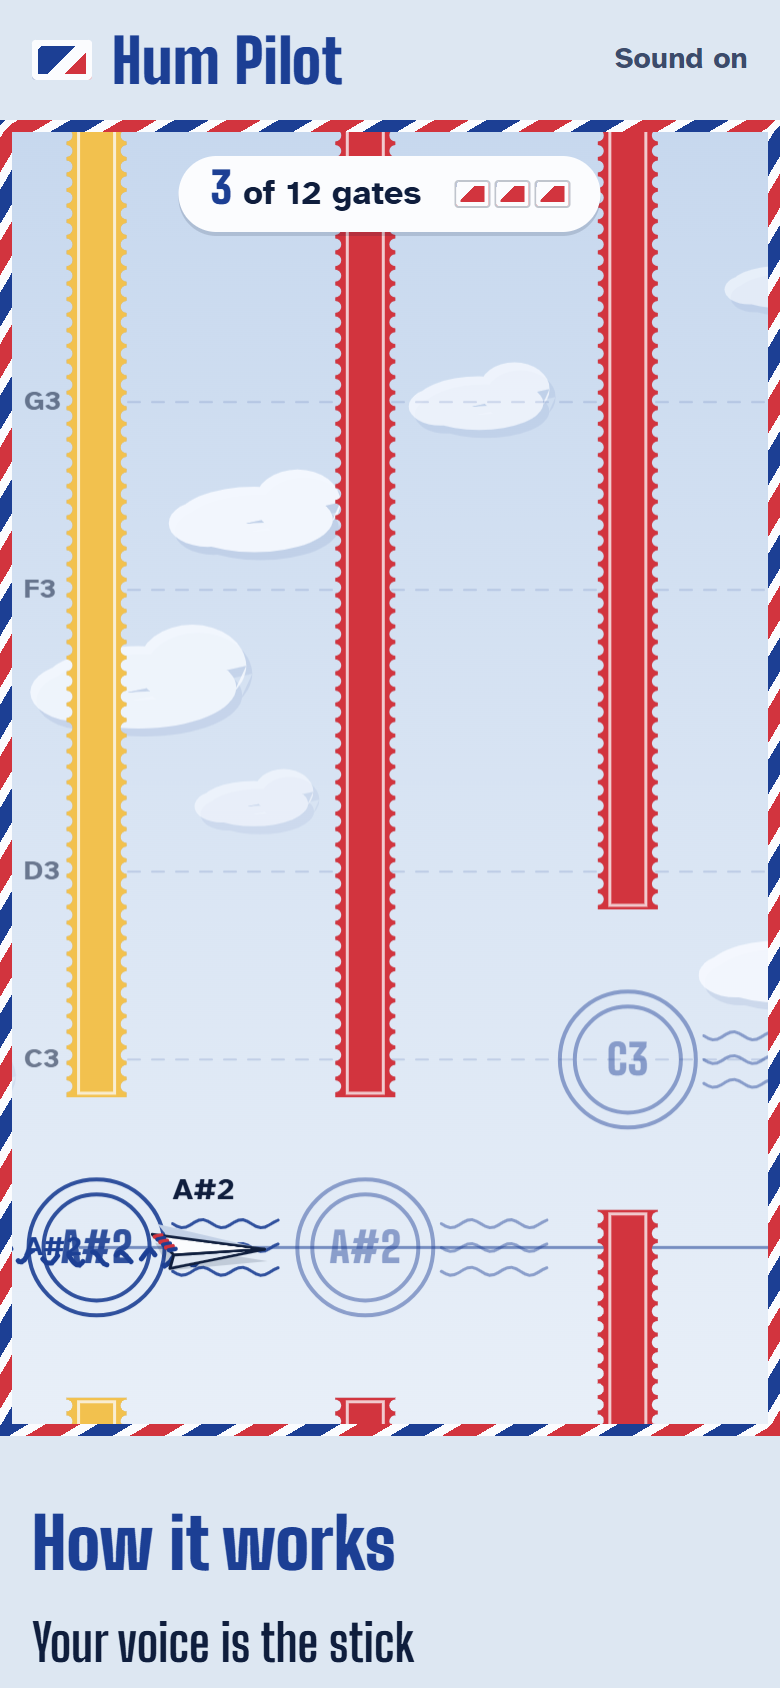
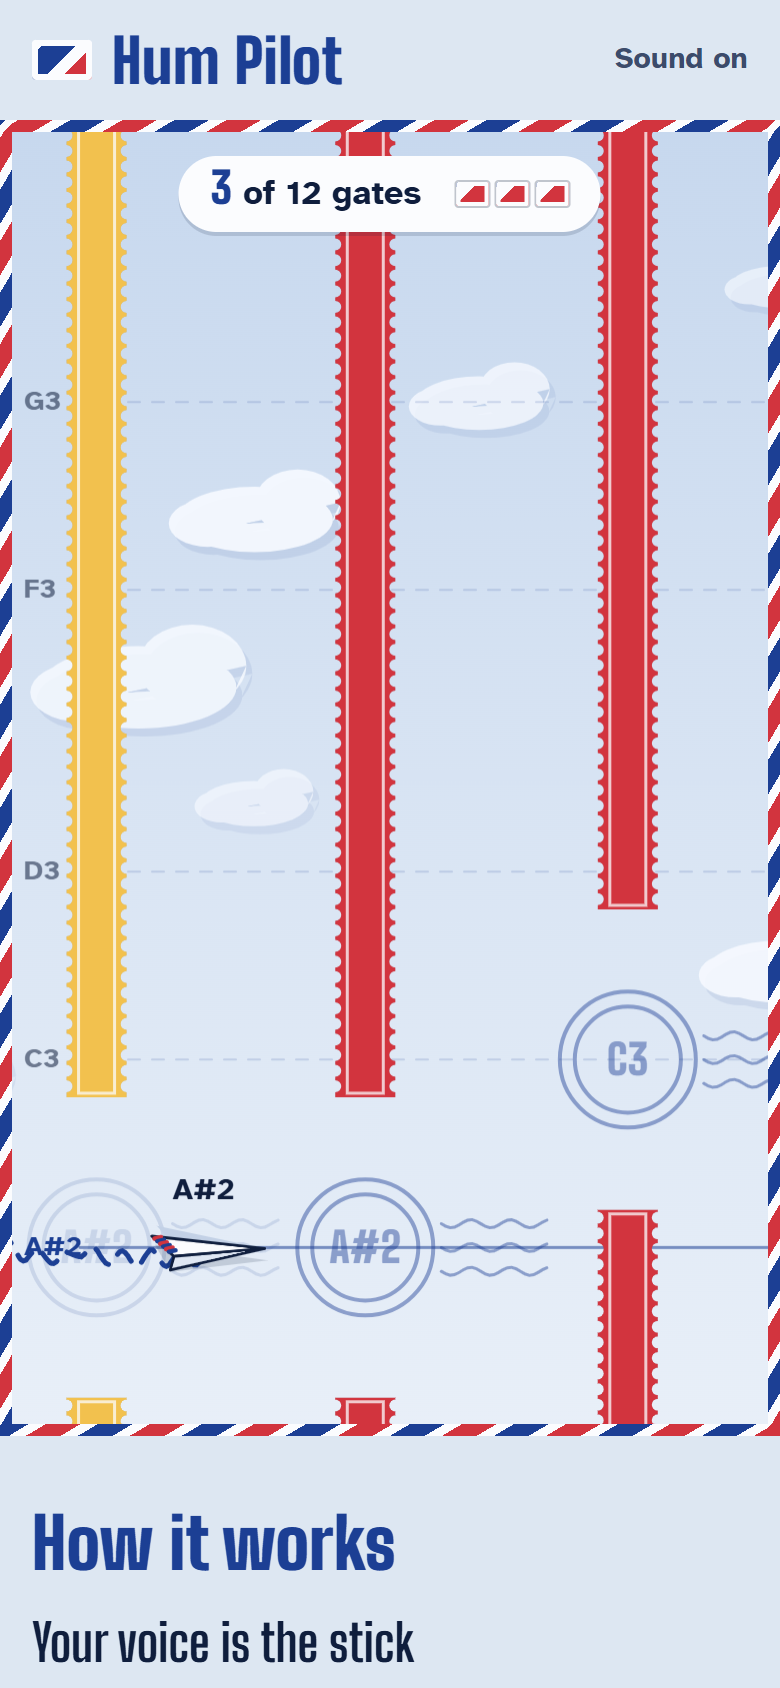
README, screenshots, accuracy report from the live-site run

Changed region(s): [[0.0308, 0.6777, 0.3385, 0.8009]]

diff --git a/scripts/make-fixtures.ts b/scripts/make-fixtures.ts
@@ -51,7 +51,8 @@ mkdirSync('test/fixtures', { recursive: true });
   const voice = VOICES.find((v) => v.name === 'light')!;
   const range = { low: 53, high: 64 };
   const gates = makeLevel(range, 'demo', { gates: 12 });
-  const notes: Note[] = [{ midi: null, dur: 0.6 }, { midi: range.low, dur: 2.6 }, { midi: null, dur: 1.0 }, { midi: range.high, dur: 2.6 }, { midi: null, dur: 1.6 }];
+  // A long pause before the tune leaves room for narration over the "Ready" screen.
+  const notes: Note[] = [{ midi: null, dur: 0.6 }, { midi: range.low, dur: 2.6 }, { midi: null, dur: 1.0 }, { midi: range.high, dur: 2.6 }, { midi: null, dur: 10.5 }];
   const tuneStart = notes.reduce((a, n) => a + n.dur, 0);
   gates.forEach((g, i) => {
     const from = i === 0 ? 0 : (gates[i - 1].time + g.time) / 2;
@@ -59,7 +60,7 @@ mkdirSync('test/fixtures', { recursive: true });
     notes.push({ midi: g.note, dur: to - from });
   });
   const tuneEnd = notes.reduce((a, n) => a + n.dur, 0);
-  const practiceStart = Math.ceil(tuneEnd + 11);
+  const practiceStart = Math.ceil(tuneEnd + 8.5);
   notes.push({ midi: null, dur: practiceStart - tuneEnd });
   const targets = practiceTargets(range, mulberry32(hashSeed('demo-0'))).slice(0, 3);
   for (const t of targets) notes.push({ midi: t, dur: 2.2 }, { midi: null, dur: 0.5 });

diff --git a/scripts/report.ts b/scripts/report.ts
@@ -1,6 +1,7 @@
 // Writes docs/ACCURACY.md from docs/accuracy.json (and test-results/e2e-mic.json if present).
 // Usage: node --experimental-strip-types scripts/report.ts
 import { existsSync, readFileSync, writeFileSync } from 'node:fs';
+import { noteName } from '../src/pitch/notes.ts';
 
 const acc = JSON.parse(readFileSync('docs/accuracy.json', 'utf8'));
 const pct = (x: number) => `${(100 * x).toFixed(1)}%`;
@@ -99,7 +100,7 @@ Run it with \`node --experimental-strip-types scripts/e2e-mic.ts <url>\`.
 `;
   for (const r of e.report) {
     if (r.matched) {
-      md += `| ${r.fixture} (practice) | ${r.range.low}-${r.range.high} (MIDI) | ${r.matched} notes matched | – | – | ${r.ok ? 'pass' : 'FAIL'} |\n`;
+      md += `| ${r.fixture} (practice) | ${noteName(r.range.low)}-${noteName(r.range.high)} | ${r.matched} notes matched | – | – | ${r.ok ? 'pass' : 'FAIL'} |\n`;
     } else {
       md += `| ${r.fixture} | ${r.expectedRange.lowName}-${r.expectedRange.highName} | ${r.threaded} gates | ${JSON.stringify(r.missed)} (${JSON.stringify(r.expectMissed)}) | median ${r.browserMinusOfflineMs.median} ms (${r.browserMinusOfflineMs.min} to ${r.browserMinusOfflineMs.max}) | ${r.ok ? 'pass' : 'FAIL'} |\n`;
     }

diff --git a/scripts/shots.ts b/scripts/shots.ts
@@ -45,4 +45,17 @@ const browser = await chromium.launch({ channel: 'msedge', args });
   console.log(JSON.stringify({ threaded: await page.evaluate(() => (window as any).__hum.threaded), overflow, errors }));
   await ctx.close();
 }
+// Hero: 2x, caught as the plane passes through the 5th gap (cover image and README)
+{
+  const ctx = await browser.newContext({ viewport: { width: 1280, height: 800 }, deviceScaleFactor: 2, permissions: ['microphone'] });
+  const page = await ctx.newPage();
+  await page.goto(`${BASE}/?seed=e2e&gates=12`);
+  await page.click('[data-act=fly]');
+  await page.waitForFunction(() => {
+    const h = (window as any).__hum;
+    return h.mode === 'flying' && h.gates.length > 5 && h.flightT > h.gates[5].time - 0.12;
+  }, null, { timeout: 40000, polling: 10 });
+  await page.screenshot({ path: `${OUT}/hero.png` });
+  await ctx.close();
+}
 await browser.close();

diff --git a/README.md b/README.md
@@ -1,0 +1,138 @@
+# Hum Pilot
+
+**Fly a paper plane with your voice.** Hum a higher note to climb, a lower note to dive,
+go quiet to glide. A ten-second warm-up tunes the sky to your own range, and every gap
+sits on a real note in it, so threading the gaps means humming a little tune.
+
+**Play it:** https://hum-pilot.pages.dev (works on a laptop or a phone; needs a microphone,
+or fly with the arrow keys)
+
+<!-- VIDEO -->
+
+![A paper plane threading stamp-edged gates, each gap marked with its note](docs/screenshots/flight.png)
+
+| Phone: warm-up | Phone: in flight | Result |
+| --- | --- | --- |
+| ![Warm-up on a phone](docs/screenshots/phone-warmup.png) | ![Flight on a phone](docs/screenshots/phone-flight.png) | ![Result card](docs/screenshots/phone-result.png) |
+
+## Why
+
+Most games need hands. Hum Pilot needs only a hum, so it is playable by people who
+can't use a keyboard, mouse or touch screen comfortably, and by anyone with their hands
+busy. Voice games usually assume one fixed range, which shuts out deep or high voices;
+here the warm-up maps *your* lowest and highest comfortable notes onto the sky.
+
+Because every gap is a real note of your range, each flight is also pitch practice, and
+**Practice notes** mode makes that explicit: hold the plane in a ring on a target note for
+one second, with live feedback in cents (100 cents is one semitone).
+
+## How to play
+
+1. Press **Start flying** and allow the microphone.
+2. Warm-up: hum your lowest comfortable note and hold it, take a breath, then hum your
+   highest. Mouth closed, an "mmm" works best.
+3. Go quiet for a moment, then hum any note to take off.
+4. Higher hum = climb, lower hum = dive, silence = glide. Thread 20 gates; three misses
+   end the flight.
+
+Headphones (or quiet speakers) help: the game's own sound effects are pitchless noise
+bursts on purpose, so they can't steer the plane even if the microphone hears them.
+
+## How it works
+
+```
+microphone ─▶ 2048-sample buffer, 60×/s ─▶ YIN pitch detector ─▶ tracker ─▶ plane height
+                (browser voice processing off)                     │
+                                                                   ├─ voicing gate (adapts to room noise)
+                                                                   ├─ jump guard + "clearer reading wins"
+                                                                   ├─ fresh start after a breath
+                                                                   └─ median of 3 frames
+warm-up (lowest + highest note) ─▶ your range ─▶ gates on its pentatonic notes, moving like a tune
+```
+
+- **Pitch detection**: YIN (de Cheveigné and Kawahara, 2002) in plain TypeScript, under
+  1 ms per frame. Browser noise suppression and auto gain are switched off, because
+  noise suppression treats a steady hum as noise.
+- **Tracker**: turns noisy per-frame guesses into a steady control signal
+  ([src/pitch/tracker.ts](src/pitch/tracker.ts)). Every stage exists because a test showed
+  it was needed (below).
+- **Calibration**: needs 1.5 s of each note, ignores the tail of the low note, and asks
+  again if the two notes are fewer than 5 semitones apart
+  ([src/game/calibrate.ts](src/game/calibrate.ts)).
+- **Levels**: gaps sit on the major pentatonic notes of your range, so any sequence of
+  them sounds musical; each gap leaves at least 1.6 semitones of room either way
+  ([src/game/level.ts](src/game/level.ts)).
+- Everything runs in the browser. No sound is recorded, uploaded or stored.
+
+## What testing changed
+
+Every version of the pitch tracker was scored on the same synthetic hums: four voices
+from deep to high, every note in their range, clean and with room noise, with the true
+pitch of every sample known. A frame is a *wrong note* when the pitch steering the plane
+is more than half a semitone off the note being hummed.
+
+| Version | Change | Wrong notes (quiet) | Wrong notes (room noise, SNR 10 dB) | Delay to a new note |
+| --- | --- | --- | --- | --- |
+| 0 | Autocorrelation peak | 23.9% | 30.3% | 76 ms |
+| 1 | YIN | 0.3% | 0.9% | 59 ms |
+| 2 | + median of 5 | 0.8% | 0.8% | 93 ms |
+| 3 | + jump guard, hangover | 2.1% | 0.9% | 93 ms |
+| 4 | + clearer reading wins | 2.1% | 0.9% | 93 ms |
+| 5 | + fresh start after a breath | 1.3% | 0.6% | 93 ms |
+| **6** | **median of 3 (shipped)** | **0.5%** | **0.6%** | **76 ms** |
+
+What each test found, in order:
+1. Autocorrelation jumped an octave on about 1 frame in 5: a hum's 2nd or 3rd harmonic is
+   often louder than its fundamental. → YIN, 0 octave errors on clean hums.
+2. My own metric punished smoothing for removing vibrato, and my test voice slid into
+   notes after silences. → score steering against the intended note; fix the synth.
+3. The jump guard could lock onto the wrong octave for ~100 ms after a breathy onset.
+   → a clearly more periodic reading replaces the window at once.
+4. The previous note dragged the start of the next. → a breath starts a fresh note,
+   and a shorter median cut the delay back to 76 ms.
+5. The noise gate took over 2 s to learn a room, and the first fix broke hearing.
+   → the floor only rises on frames that are clearly not a voice.
+6. Real-browser screenshots caught a visible score bar on the title screen, a trail
+   that drew solid instead of dashed, and a practice ring smaller than the plane.
+
+Full details: **[docs/TEST-LOG.md](docs/TEST-LOG.md)** (dated, with the numbers before and
+after each change) and **[docs/ACCURACY.md](docs/ACCURACY.md)** (all tables).
+
+**In a real browser.** Microsoft Edge with a fake microphone playing a synthetic hum, on
+the live site: the game found the exact range hummed and threaded 12 of 12 gates (also 12
+of 12 for a high voice in room noise). When the hum was deliberately wrong on gates 4
+and 8, exactly those two were missed. In practice mode, 8 of 8 notes were matched.
+
+**Limits.** All voices in these tests are synthetic; the detector has not been scored on
+labelled recordings of real people. In a very loud room (noise only 5 dB below the hum)
+the game hears few frames and the plane mostly glides.
+
+## Run it
+
+```bash
+npm install
+npm run dev          # http://localhost:5193
+npm test             # 29 unit tests: detector, tracker, warm-up, levels, flight
+npm run accuracy     # re-scores every tracker version (about 1 minute), writes docs/accuracy.json
+npm run fixtures     # writes the synthetic hum recordings used by the browser test
+node --experimental-strip-types scripts/report.ts                 # docs/ACCURACY.md
+node --experimental-strip-types scripts/e2e-mic.ts http://localhost:5193   # Edge + fake microphone
+```
+
+The browser test and screenshot scripts use Playwright with Microsoft Edge.
+
+## Credits
+
+- Pitch detection: the YIN algorithm, A. de Cheveigné and H. Kawahara, "YIN, a fundamental
+  frequency estimator for speech and music", J. Acoust. Soc. Am. 111(4), 2002. Implemented
+  from the paper; no pitch library is used.
+- Pink noise for the room-noise tests: Paul Kellet's filter.
+- Fonts: Big Shoulders Display and Atkinson Hyperlegible (SIL Open Font License), via Fontsource.
+- Built with TypeScript and Vite; tested with Vitest and Playwright.
+- The demo video's narration was made with the Kokoro text-to-speech model, offline.
+- All art (the airmail sky, stamp gates, postmarks and paper plane) is drawn in code for
+  this project. All sounds are synthesised in the browser.
+
+## Licence
+
+MIT. See [LICENSE](LICENSE).

diff --git a/docs/ACCURACY.md b/docs/ACCURACY.md
@@ -79,16 +79,16 @@ Run it with `node --experimental-strip-types scripts/e2e-mic.ts <url>`.
 
 | Recording | Range found | Result | Missed gates (expected) | Browser vs offline delay | Result |
 | --- | --- | --- | --- | --- | --- |
-| flight-warm | A#2-G#3 | 12/12 gates | [] ([]) | median 8 ms (-4 to 17) | pass |
-| flight-high-noisy | C4-A#4 | 12/12 gates | [] ([]) | median 12 ms (-1 to 27) | pass |
-| flight-two-misses | F2-D#3 | 10/12 gates | [4,8] ([4,8]) | median 8 ms (-51 to 19) | pass |
-| practice-light (practice) | 53-64 (MIDI) | 8/8 notes matched | – | – | pass |
+| flight-warm | A#2-G#3 | 12/12 gates | [] ([]) | median -3 ms (-22 to 2) | pass |
+| flight-high-noisy | C4-A#4 | 12/12 gates | [] ([]) | median -12 ms (-31 to 10) | pass |
+| flight-two-misses | F2-D#3 | 10/12 gates | [4,8] ([4,8]) | median 6 ms (-4 to 19) | pass |
+| practice-light (practice) | F3-E4 | 8/8 notes matched | – | – | pass |
 
 "Browser vs offline delay" compares when the browser's steering pitch settled on each new
 note with when the same detector, run offline on the same file, settled. Near zero means the
 live audio path (microphone, AnalyserNode, animation frames) adds no measurable delay
 beyond the detector itself. Edge reported an audio input latency of 10 ms and YIN took
-0.80 ms per frame in the page.
+1.90 ms per frame in the page.
 
 ## Limits
 

diff --git a/docs/TEST-LOG.md b/docs/TEST-LOG.md
@@ -104,9 +104,10 @@ because at that noise level about 11% of what *is* heard is an octave off anyway
 Arrow-key flights and screenshots for the parts a fake microphone cannot show.
 
 **Result.** The game found the exact range hummed and threaded 12 of 12 gates. The
-browser's steering pitch settled on each new note a median of 0 to 12 ms after the same
-detector run offline on the same file (single notes: −51 to +27 ms, about ±3 frames), so the
-live audio path adds almost no delay.
+browser's steering pitch settled on each new note within about a frame of the same
+detector run offline on the same file (median difference between −12 and +12 ms per
+recording across two runs; single notes −51 to +27 ms), so the live audio path adds
+almost no delay.
 The screenshots found three problems the unit tests could not:
 1. The score bar was visible on the title screen (a CSS rule overrode `hidden`).
 2. The flight trail was meant to be dashed but drew solid, because each 1-pixel
